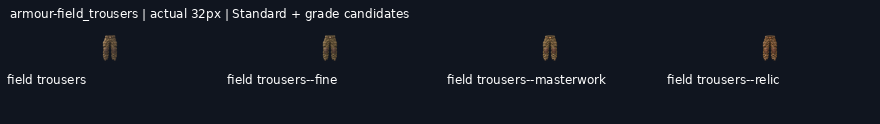
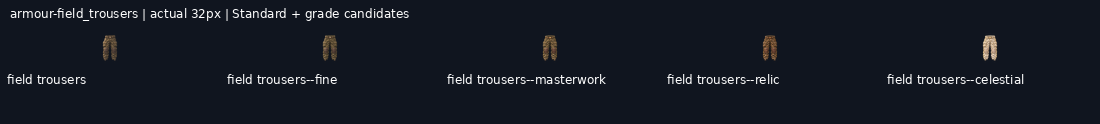
art: draw armour-field_trousers--celestial grade candidate

diff --git a/art/_archive/gear/2026-11-19-kept-blade-grades/HANDOFF.md b/art/_archive/gear/2026-11-19-kept-blade-grades/HANDOFF.md
@@ -1,6 +1,6 @@
 # Gear grade candidates
 
-**168/208 grade candidates delivered** on `art/2026-11-19-kept-blade-grades`. Shared mailbox: https://github.com/leonpentastorm/Project-Heaven-Cry/issues/3 . See claim.json for this lane’s current Standards. Released overlapping blades reuse12 peer candidates, with3 local alternatives archived.
+**169/208 grade candidates delivered** on `art/2026-11-19-kept-blade-grades`. Shared mailbox: https://github.com/leonpentastorm/Project-Heaven-Cry/issues/3 . See claim.json for this lane’s current Standards. Released overlapping blades reuse12 peer candidates, with3 local alternatives archived.
 
 Leon requested continuous candidate production; proof approval is not fabricated. All candidates remain review-candidate, production_approved:false, implementation_ready:false, with outline.review_required:true. Exact outline is measured, never asserted unless the masks match. Per-image registration is uniform scaling/translation only, without warp, silhouette masks, filled pixels or code-drawn substitutes. The generated native remains untouched.
 
@@ -10,12 +10,12 @@ Tomorrow: fetch this branch and develop safely, read the latest issue 3 comments
 
 Peer audit: [coordination/peer-audit-2026-11-19.md](coordination/peer-audit-2026-11-19.md). Peer58 masters/232 exports and12 canonical imports are integrated with versioned alpha<8 cleanup; originals are retained. See coordination/peer-import-v2/manifest.json and post-catalog VALIDATION.json (strict margins pass, solid alpha unchanged). Peer quota resets20 November2026 at09:45:39 Bangkok time; this does not establish this session’s quota.
 
-Remaining: weapon-ork_machete--masterwork, weapon-ork_machete--relic, weapon-ork_machete--celestial, weapon-war_axe--fine, weapon-war_axe--masterwork, weapon-war_axe--relic, weapon-war_axe--celestial, weapon-parlour_pistol--fine, weapon-parlour_pistol--masterwork, weapon-parlour_pistol--relic, weapon-parlour_pistol--celestial, weapon-lever_carbine--fine, weapon-lever_carbine--masterwork, weapon-lever_carbine--relic, weapon-lever_carbine--celestial, weapon-sawn_off--fine, weapon-sawn_off--masterwork, weapon-sawn_off--relic, weapon-sawn_off--celestial, weapon-coach_gun--fine, weapon-coach_gun--masterwork, weapon-coach_gun--relic, weapon-coach_gun--celestial, weapon-legion_bullpup--fine, weapon-legion_bullpup--masterwork, weapon-legion_bullpup--relic, weapon-legion_bullpup--celestial, weapon-whisper_smg--fine, weapon-whisper_smg--masterwork, weapon-whisper_smg--relic, weapon-whisper_smg--celestial, armour-field_trousers--celestial, armour-tactical_gloves--fine, armour-tactical_gloves--masterwork, armour-tactical_gloves--relic, armour-tactical_gloves--celestial, armour-jump_boots--fine, armour-jump_boots--masterwork, armour-jump_boots--relic, armour-jump_boots--celestial.
+Remaining: weapon-ork_machete--masterwork, weapon-ork_machete--relic, weapon-ork_machete--celestial, weapon-war_axe--fine, weapon-war_axe--masterwork, weapon-war_axe--relic, weapon-war_axe--celestial, weapon-parlour_pistol--fine, weapon-parlour_pistol--masterwork, weapon-parlour_pistol--relic, weapon-parlour_pistol--celestial, weapon-lever_carbine--fine, weapon-lever_carbine--masterwork, weapon-lever_carbine--relic, weapon-lever_carbine--celestial, weapon-sawn_off--fine, weapon-sawn_off--masterwork, weapon-sawn_off--relic, weapon-sawn_off--celestial, weapon-coach_gun--fine, weapon-coach_gun--masterwork, weapon-coach_gun--relic, weapon-coach_gun--celestial, weapon-legion_bullpup--fine, weapon-legion_bullpup--masterwork, weapon-legion_bullpup--relic, weapon-legion_bullpup--celestial, weapon-whisper_smg--fine, weapon-whisper_smg--masterwork, weapon-whisper_smg--relic, weapon-whisper_smg--celestial, armour-tactical_gloves--fine, armour-tactical_gloves--masterwork, armour-tactical_gloves--relic, armour-tactical_gloves--celestial, armour-jump_boots--fine, armour-jump_boots--masterwork, armour-jump_boots--relic, armour-jump_boots--celestial.
 
 Service-rejected requests (do not repeatedly resubmit): weapon-coach_gun--fine, weapon-legion_bullpup--fine, weapon-lever_carbine--fine, weapon-ork_machete--masterwork, weapon-parlour_pistol--fine, weapon-sawn_off--fine, weapon-war_axe--fine, weapon-whisper_smg--fine.
 
 Waiting on rejected prerequisites: weapon-coach_gun--celestial, weapon-coach_gun--masterwork, weapon-coach_gun--relic, weapon-legion_bullpup--celestial, weapon-legion_bullpup--masterwork, weapon-legion_bullpup--relic, weapon-lever_carbine--celestial, weapon-lever_carbine--masterwork, weapon-lever_carbine--relic, weapon-ork_machete--celestial, weapon-ork_machete--relic, weapon-parlour_pistol--celestial, weapon-parlour_pistol--masterwork, weapon-parlour_pistol--relic, weapon-sawn_off--celestial, weapon-sawn_off--masterwork, weapon-sawn_off--relic, weapon-war_axe--celestial, weapon-war_axe--masterwork, weapon-war_axe--relic, weapon-whisper_smg--celestial, weapon-whisper_smg--masterwork, weapon-whisper_smg--relic.
 
-Ready independent next steps, in queue order: armour-field_trousers--celestial, armour-tactical_gloves--fine, armour-jump_boots--fine. Other pending grades follow their preceding grade.
+Ready independent next steps, in queue order: armour-tactical_gloves--fine, armour-jump_boots--fine. Other pending grades follow their preceding grade.
 
 Runtime handoff: implementation_ready:false records review status but does not gate the web asset builder. The builder emits grade asset keys; the current UI gear resolver still needs grade-aware selection. Do not claim that runtime grade selection is implemented by these art deliveries.
